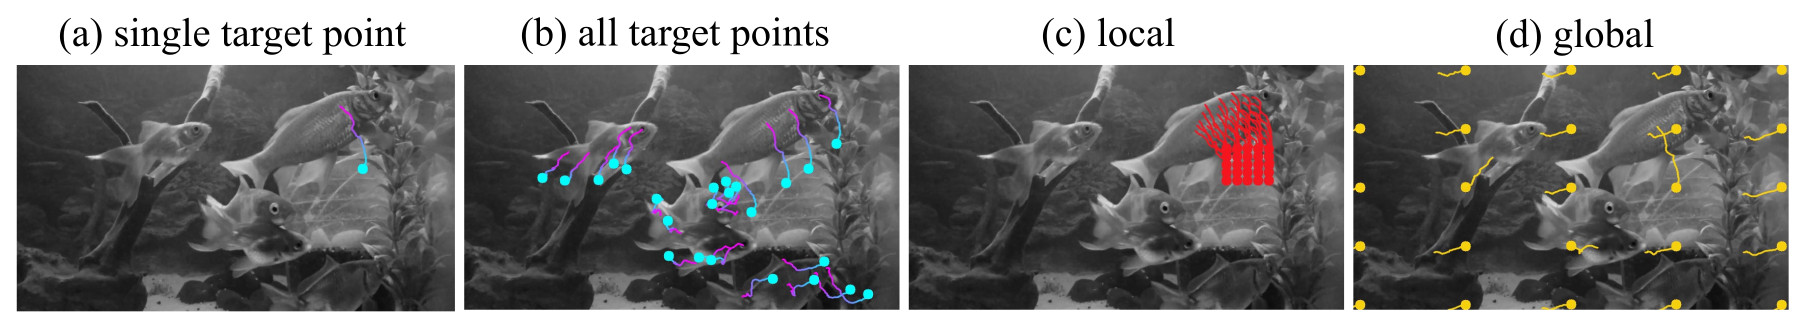
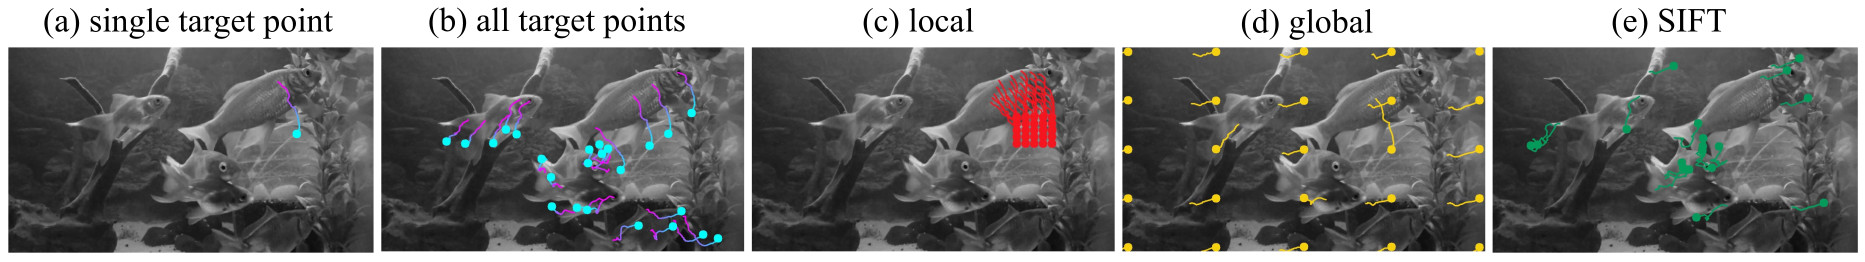
full post done

diff --git a/collections/_posts/2024-04-16-cotracker.md b/collections/_posts/2024-04-16-cotracker.md
@@ -202,7 +202,7 @@ $$\mathcal{L}_2\left( \hat{\nu},\nu \right) = \sum_{j=1}^J CE\left( \hat{\nu}^{(
 
 * The key idea is to reinforce contextual aspects through the joint tacking formulation
 
-* Different configuration are tested, with global strategy (support points form a regular grid across the whole image), with local strategy (the grid of points is centered around the point we wish to track, allowing the model to focus on a neighbourhood of it)
+* Different configuration are tested, with global strategy (support points form a regular grid across the whole image), with local strategy (the grid of points is centered around the point we wish to track, allowing the model to focus on a neighbourhood of it), or with SIFT strategy (SIFT is used to detect support points)
 
 ![](/collections/images/cotracker/support-point-strategies.jpg)
 
@@ -253,26 +253,53 @@ $$\mathcal{L}_2\left( \hat{\nu},\nu \right) = \sum_{j=1}^J CE\left( \hat{\nu}^{(
 
 # Results
 
-* TODO
-* TODO
+## Is joint tacking beneficial ?
+
+* TAP-Vid-DAVIS dataset used for tracking using either a single target point at a time or all target point simultaneously 
+* Different configuration of support points are tested
+
+<div style="text-align:center">
+<img src="/collections/images/cotracker/results-joint-tracking.jpg" width=450></div>
+<p style="text-align: center;font-style:italic">Table 1 - Importance of joint tracking. Comparison using time and cross-track attention, tracking single or multiple target points, and using additional support points.</p>
 
 &nbsp;
 
-## TODO
+## How does CoTracker compare to prior work ? 
 
-* TODO
-* TODO
+<div style="text-align:center">
+<img src="/collections/images/cotracker/results-comparison-sota.jpg" width=700></div>
+<p style="text-align: center;font-style:italic">Table 2 - State of the art comparison. CoTracker was compared to the best trackers available on TAP-Vid-DAVIS as well as on Dynamic Replica.</p>
 
-## TODO
+&nbsp;
 
-* TODO
-* TODO
+![](/collections/images/cotracker/davis_car.gif)
+![](/collections/images/cotracker/davis_libby.gif)
+![](/collections/images/cotracker/davis_soapbox.gif)
+
+<p style="text-align: center;font-style:italic">Figure 1 - State of the art comparison. First column: PIPs, second column: RAFT, third column: TAPIR, last column: CoTracker.</p>
+
+&nbsp;
+
+## Is unrolled training important ?
+
+<div style="text-align:center">
+<img src="/collections/images/cotracker/results-unrolled-training.jpg" width=350></div>
+<p style="text-align: center;font-style:italic">Table 3. Unrolled training. CoTracker is built for sliding window predictions. Using them during training is important.</p>
+
+&nbsp;
+
+## Do virtual tracks help CoTracker to scale ?
+
+<div style="text-align:center">
+<img src="/collections/images/cotracker/results-virtual-tracks.jpg" width=350></div>
+<p style="text-align: center;font-style:italic">Table 4. The virtual tracks allow CoTracker to scale. We report the maximum number of tracks that can fit on a 80 GB GPU.</p>
+
+&nbsp;
 
 # Conclusions
 
-* TODO
-* TODO
-* TODO
-* TODO
+* Joint tracking of points improves results
+* CoTracker is among the current best performing method for point tracking
+* Introduce several interesting concepts, such as occuracy flags and support points
 
 
